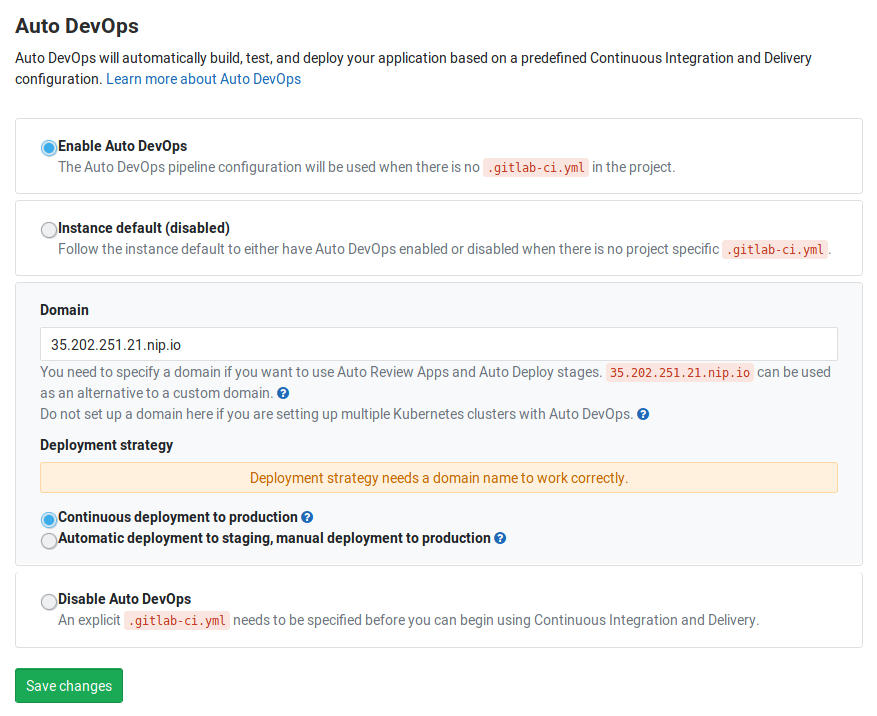
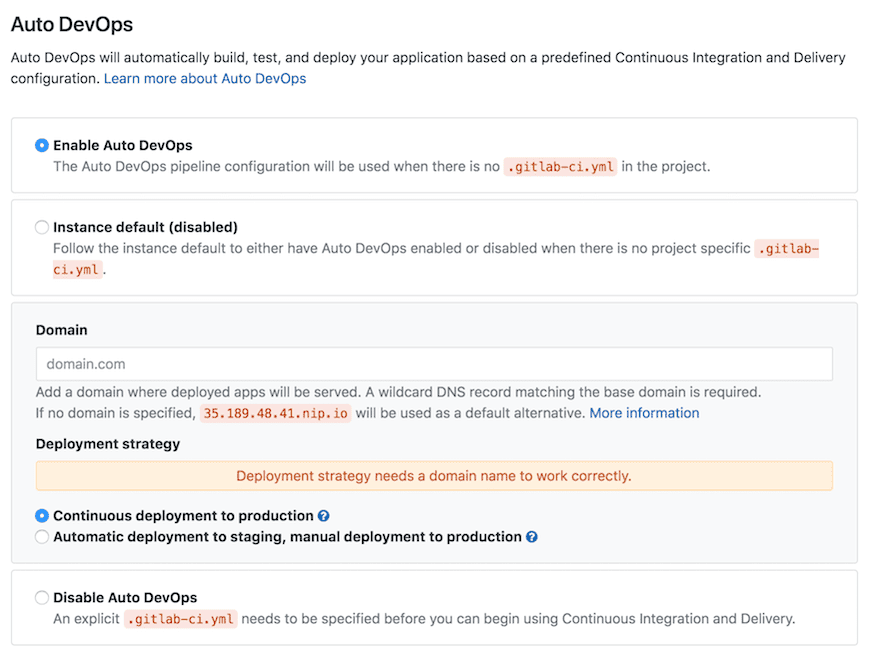
Update the quick start guide for Auto Devops to skip setting the base domain.
As GitLab now sets the base domain via the * ingress using nip.io

Instead, mention the new default behaviour of base domain.
Also, updated Auto Devops settings image above with new help text.

diff --git a/doc/topics/autodevops/quick_start_guide.md b/doc/topics/autodevops/quick_start_guide.md
@@ -109,8 +109,8 @@ the scenes. Prometheus is an open-source monitoring and alerting system that we'
 use to supervise the deployed application. We will not install GitLab Runner as
 we'll use the shared Runners that GitLab.com provides.
 
-After the Ingress is installed, wait a few seconds and copy the IP address that
-is displayed, which we'll use in the next step when enabling Auto DevOps.
+After the Ingress is installed, wait a few seconds for the IP address to
+be fetched by GitLab, which we'll use in the next step when enabling Auto DevOps.
 
 ## Enabling Auto DevOps
 
@@ -118,19 +118,18 @@ Now that the Kubernetes cluster is set up and ready, let's enable Auto DevOps.
 
 1. First, navigate to **Settings > CI/CD > Auto DevOps**.
 1. Select **Enable Auto DevOps**.
-1. Add in your base **Domain** by using the one GitLab suggests. Note that
-   generally, you would associate the IP address with a domain name on your
-   registrar's settings. In this case, for the sake of the guide, we will use
-   an alternative DNS that will map any domain name of the scheme
-   `anything.ip_address.nip.io` to the corresponding `ip_address`. For example,
-   if the IP address of the Ingress is `1.2.3.4`, the domain name to fill in
-   would be `1.2.3.4.nip.io`.
 1. Lastly, let's select the [continuous deployment strategy](index.md#deployment-strategy)
    which will automatically deploy the application to production once the pipeline
    successfully runs on the `master` branch.
 1. Click **Save changes**.
 
     ![Auto DevOps settings](img/guide_enable_autodevops.png)
+
+The base domain should default to using the IP address of the ingress
+set up in the previous section and [nip.io](http://nip.io). For example,
+if the IP address of the Ingress is `1.2.3.4`, then your base domain
+default would be `1.2.3.4.nip.io`. See [Base domain](index.md#auto-devops-base-domain)
+for details and how to configure a custom domain.
 
 Once you complete all the above and save your changes, a new pipeline is
 automatically created. To view the pipeline, go to **CI/CD > Pipelines**.
